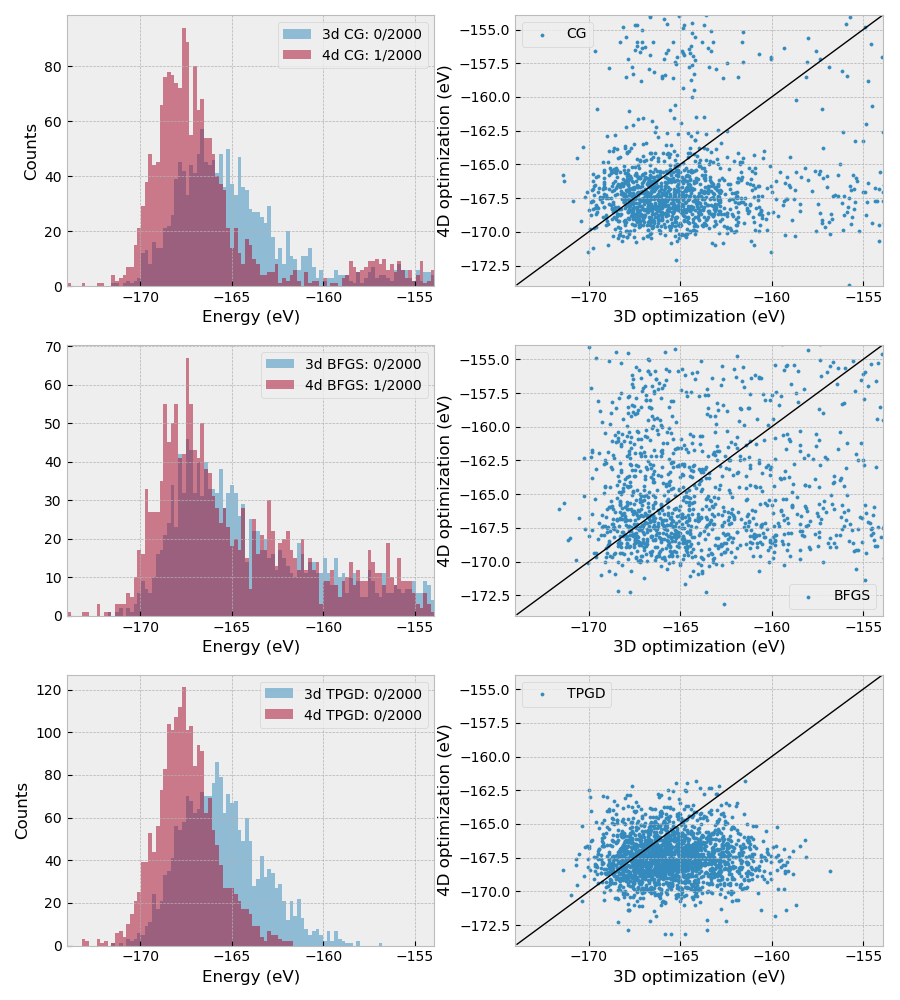
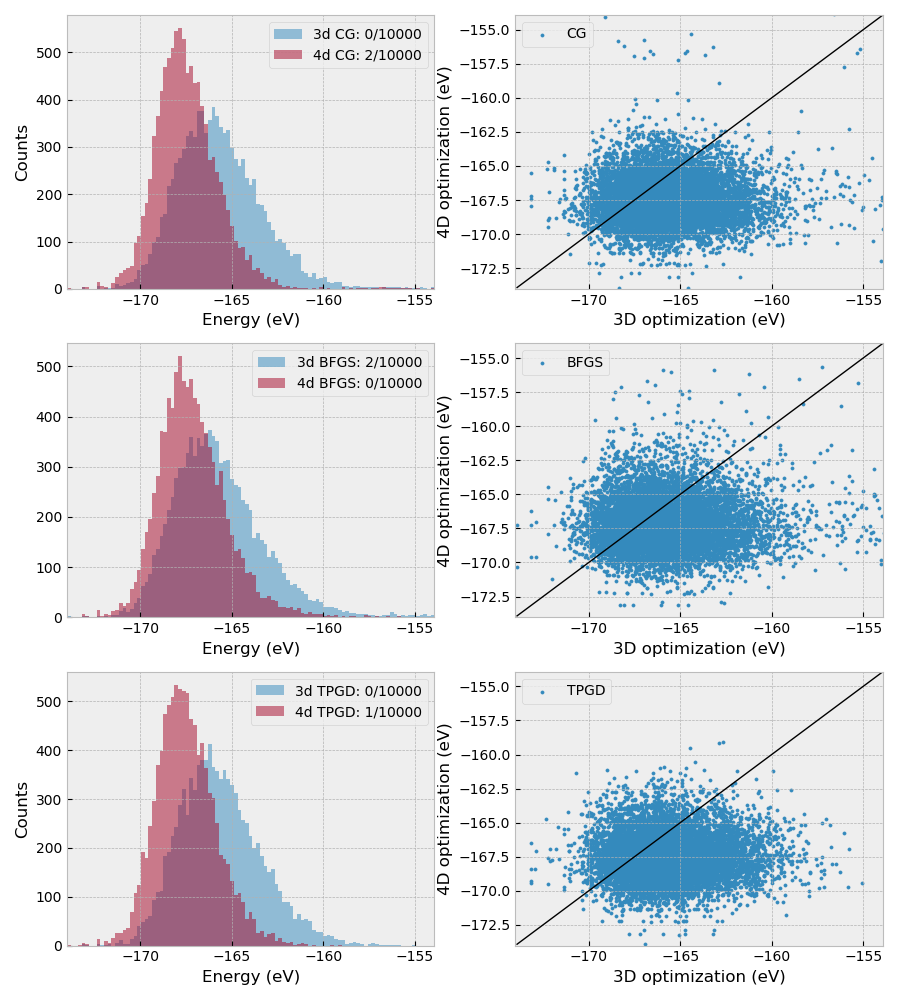
randomly initialize the coordinates in the extrac dimension

diff --git a/test.py b/test.py
@@ -27,34 +27,42 @@ def single_optimize(pos, dim=3, kt=0.5, mu=0.1, beta=1.001, method='CG'):
         pos = pos[:, :dim]
 
     pos = pos.flatten()
+    res = _minimize_tpgd(LJ, pos, args=(dim, mu), jac=LJ_force, gtol=1e-4, maxiter=20)
+    pos = res.x
     if method == 'mycg':
-        res = _minimize_cg(LJ, pos, args=(dim, mu), jac=LJ_force, gtol=1e-4)
+        res = _minimize_cg(LJ, pos, args=(dim, mu), jac=LJ_force, gtol=1e-4, maxiter=500)
+        res = _minimize_cg(LJ, res.x, args=(dim, mu), jac=LJ_force, gtol=1e-4, maxiter=500)
+        res = _minimize_cg(LJ, res.x, args=(dim, mu), jac=LJ_force, gtol=1e-4)
     elif method== 'mybfgs':
-        res = _minimize_bfgs(LJ, pos, args=(dim, mu), jac=LJ_force, gtol=1e-4)
+        res = _minimize_bfgs(LJ, pos, args=(dim, mu), jac=LJ_force, gtol=1e-4, maxiter=500)
+        res = _minimize_bfgs(LJ, res.x, args=(dim, mu), jac=LJ_force, gtol=1e-4, maxiter=500)
+        res = _minimize_bfgs(LJ, res.x, args=(dim, mu), jac=LJ_force, gtol=1e-4)
     elif method == 'mytpgd':
-        res = _minimize_tpgd(LJ, pos, args=(dim, mu), jac=LJ_force, gtol=1e-4)
+        res = _minimize_tpgd(LJ, pos, args=(dim, mu), jac=LJ_force, gtol=1e-4, maxiter=500)
+        res = _minimize_tpgd(LJ, res.x, args=(dim, mu), jac=LJ_force, gtol=1e-4, maxiter=500)
+        res = _minimize_tpgd(LJ, res.x, args=(dim, mu), jac=LJ_force, gtol=1e-4)
     else:
         res = minimize(LJ, pos, args=(dim, mu), jac=LJ_force, method=method, tol=1e-4)
     energy = res.fun
     pos = np.reshape(res.x, (N_atom, dim))
-    return energy, pos
+    return energy, pos, res.nit
 
 def one_step(pos):
     eng = []
     for method in ['mycg', 'mybfgs', 'mytpgd']:
         pos1 = pos.copy()
-        energy1, pos1 = single_optimize(pos1, dim=3, method=method)
+        energy1, pos1, it1 = single_optimize(pos1, dim=3, method=method)
         pos2 = pos.copy()
-        energy2, pos2 = single_optimize(pos2, dim=4, mu=10, kt=0, method=method)
-        energy2, pos2 = single_optimize(pos2, dim=3, method=method)
-        print('Optmization {:10s}  3D: {:10.4f}  4D: {:10.4f}'.format(method, energy1, energy2))
+        energy2, pos2, it2 = single_optimize(pos2, dim=4, mu=10, kt=1, method=method)
+        energy2, pos2, it2 = single_optimize(pos2, dim=3, method=method)
+        print('Optmization {:10s}  3D: {:10.4f}  {:6d} 4D: {:10.4f} {:6d}'.format(method, energy1, it1, energy2, it2))
         eng.append([energy1, energy2])
     eng = np.array(eng)
     return eng.flatten()
 
 if __name__ == "__main__":
     #np.random.seed(10)
-    N = 5000
+    N = 10000
     clusters = []
     for i in range(N):
         pos = np.loadtxt('data/LJ-38.txt')
@@ -128,7 +136,9 @@ if __name__ == "__main__":
     ax4=fig.add_subplot(gs[0,1]) 
     ax5=fig.add_subplot(gs[1,1]) 
     ax6=fig.add_subplot(gs[2,1]) 
-    
+    x = np.linspace(eng_min, eng_min+20, 10)
+
+    ax4.plot(x, x, 'k-', lw=1)
     ax4.scatter(eng_cg3, eng_cg4, label='CG', s=5)
     ax4.set_xlabel('3D optimization (eV)')
     ax4.set_ylabel('4D optimization (eV)')
@@ -136,6 +146,7 @@ if __name__ == "__main__":
     ax4.set_ylim([eng_min-0.1, eng_min+20])
     ax4.legend()
 
+    ax5.plot(x, x, 'k-', lw=1)
     ax5.scatter(eng_bf3, eng_bf4, label='BFGS', s=5)
     ax5.set_xlabel('3D optimization (eV)')
     ax5.set_ylabel('4D optimization (eV)')
@@ -144,6 +155,7 @@ if __name__ == "__main__":
     ax5.legend()
 
     ax6.scatter(eng_gd3, eng_gd4, label='TPGD', s=5)
+    ax6.plot(x, x, 'k-', lw=1)
     ax6.set_xlabel('3D optimization (eV)')
     ax6.set_ylabel('4D optimization (eV)')
     ax6.set_xlim([eng_min-0.1, eng_min+20])
